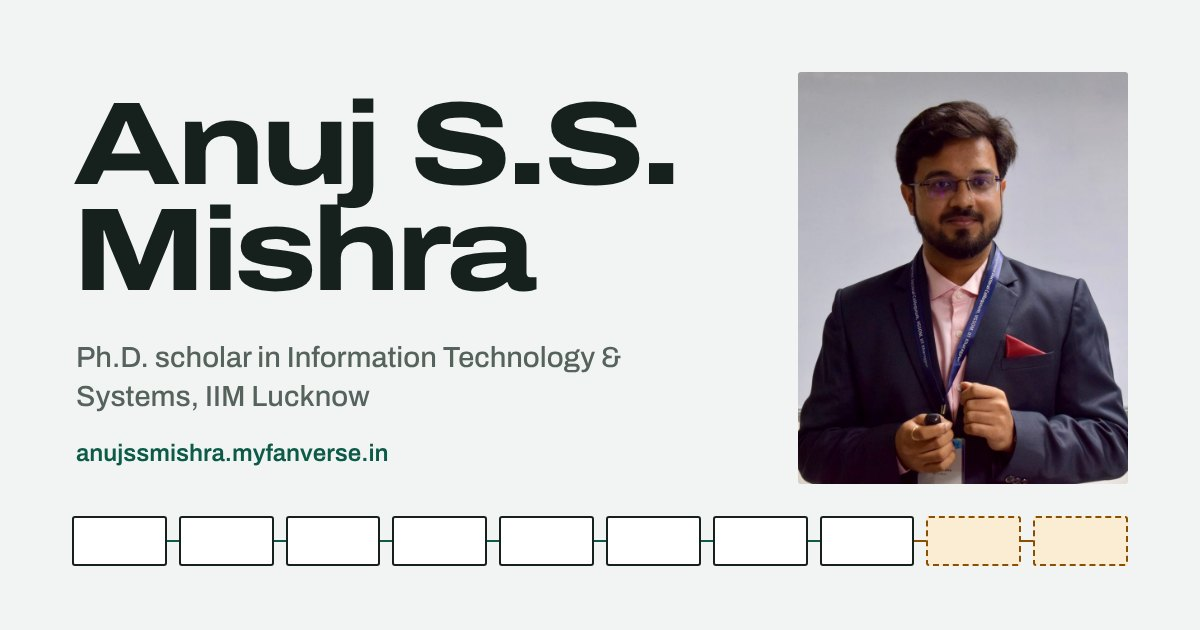
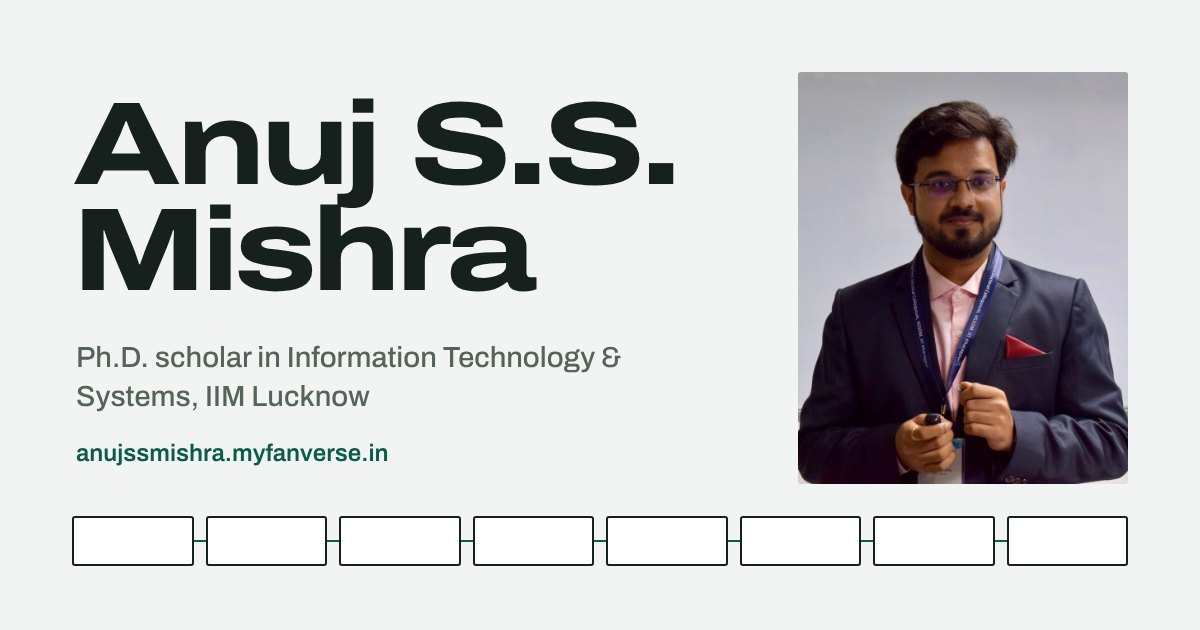
Remove Lisbon entries, add co-authors, fix sideways scroll on phones
- Remove the ICIS 2026 TREO and Pre-ICIS SIGDSA 2026 entries (not being
  presented), their related-work links and the dashed-block note
- Add author lines (from AIS eLibrary, IEEE Xplore and Google Scholar) to
  AMCIS 2026, AMCIS 2025, INDAM 2024, POMS India 2023 and ASIANCON 2021
- Fix the page scrolling sideways on phones: hidden block labels in the
  papers-and-talks strip were escaping its scroll box
- Name the chain list from its heading; regenerate the sharing image;
  update footer date, sitemap and README

Claude-Session: https://claude.ai/code/session_018Y6y4aCJHy885Jrgosy7ih

diff --git a/index.html b/index.html
@@ -109,11 +109,11 @@
 
       <div class="chain-wrap">
         <div class="wrap chain-head">
-          <h2 class="chain-title">Papers and talks, 2021 to 2026</h2>
-          <p class="chain-note">Each block’s fingerprint is the SHA-256 of its record and the fingerprint before it. Dashed blocks are scheduled for Lisbon in December 2026.</p>
+          <h2 class="chain-title" id="chain-title">Papers and talks, 2021 to 2026</h2>
+          <p class="chain-note">Each block’s fingerprint is the SHA-256 of its record and the fingerprint before it.</p>
         </div>
         <div class="chain-scroll">
-          <ol class="chain" id="chain" aria-label="Papers and talks in date order"></ol>
+          <ol class="chain" id="chain" aria-labelledby="chain-title"></ol>
         </div>
       </div>
     </section>
@@ -143,12 +143,12 @@
           <li class="theme">
             <h3>Telecom spam and regulatory enforcement</h3>
             <p>Distributed-ledger enforcement of consumer preferences against unsolicited commercial calls and messages, and systems-theoretic (STAMP) analysis of compliance across networks.</p>
-            <p class="related">Related work: <a href="#p-icis-2026">ICIS 2026</a>, <a href="#p-ecis-2026">JAIS workshop at ECIS 2026</a></p>
+            <p class="related">Related work: <a href="#p-ecis-2026">JAIS workshop at ECIS 2026</a></p>
           </li>
           <li class="theme">
             <h3>AI on agricultural platforms</h3>
             <p>How Indian AgTech platforms use AI to win and keep farmers, studied through case studies, news analysis and interviews.</p>
-            <p class="related">Related work: <a href="#p-sigdsa-2026">Pre-ICIS SIGDSA 2026</a></p>
+            <p class="related">Work in progress</p>
           </li>
         </ul>
       </div>
@@ -162,26 +162,11 @@
 
         <h4 class="ledger-year">2026</h4>
         <ol class="ledger">
-          <li class="entry" id="p-icis-2026" data-chain data-date="2026-12-13" data-short="ICIS TREO" data-place="Lisbon" data-state="pending">
-            <p class="entry-date">Dec</p>
-            <div class="entry-body">
-              <p class="entry-title">From Fragmented Compliance to Synchronized Enforcement: Rethinking DLT-Based Control of Unsolicited Commercial Communications</p>
-              <p class="entry-venue">ICIS 2026, TREO talk (research in progress), Lisbon, Portugal, 13–16 December 2026</p>
-            </div>
-            <p class="entry-status"><span class="dot dot--pending" aria-hidden="true"></span>Accepted</p>
-          </li>
-          <li class="entry" id="p-sigdsa-2026" data-chain data-date="2026-12-12" data-short="SIGDSA" data-place="Lisbon" data-state="pending">
-            <p class="entry-date">Dec</p>
-            <div class="entry-body">
-              <p class="entry-title">Beyond Adoption: AI-Enabled Retention in Indian AgTech Platforms</p>
-              <p class="entry-venue">2026 Pre-ICIS SIGDSA Symposium, Lisbon, Portugal, 12–13 December 2026</p>
-            </div>
-            <p class="entry-status"><span class="dot dot--pending" aria-hidden="true"></span>Conditionally accepted</p>
-          </li>
           <li class="entry" id="p-amcis-2026" data-chain data-date="2026-08-20" data-short="AMCIS" data-place="Reno">
             <p class="entry-date">Aug</p>
             <div class="entry-body">
               <p class="entry-title"><a href="https://aisel.aisnet.org/amcis2026/sig_sec/sig_sec/19">Decentralizing Trust: Self-Sovereign Identity Implementation in India’s Civil Aviation Ecosystem</a></p>
+              <p class="entry-authors"><strong>Anuj S.S. Mishra</strong>, Arunabha Mukhopadhyay</p>
               <p class="entry-venue">AMCIS 2026, Reno, USA, 20–22 August 2026</p>
               <p class="entry-links">
                 <a href="https://aisel.aisnet.org/amcis2026/sig_sec/sig_sec/19">AIS eLibrary</a>
@@ -215,6 +200,7 @@
             <p class="entry-date">Aug</p>
             <div class="entry-body">
               <p class="entry-title"><a href="https://aisel.aisnet.org/amcis2025/sig_sec/sig_sec/34">Cyber Risk Challenges in UPI and CBDC</a></p>
+              <p class="entry-authors"><strong>Anuj S.S. Mishra</strong>, Arunabha Mukhopadhyay</p>
               <p class="entry-venue">AMCIS 2025, Montréal, Canada, 14–16 August 2025</p>
               <p class="entry-links">
                 <a href="https://aisel.aisnet.org/amcis2025/sig_sec/sig_sec/34">AIS eLibrary</a>
@@ -240,6 +226,7 @@
             <p class="entry-date">Jul</p>
             <div class="entry-body">
               <p class="entry-title">Evolution from Traditional Currency to Digital Transactions: Delving into CBDC Acceptance</p>
+              <p class="entry-authors"><strong>Anuj S.S. Mishra</strong>, Arunabha Mukhopadhyay</p>
               <p class="entry-venue">INDAM 2024 Doctoral Colloquium, IIM Shillong, 9–11 July 2024</p>
             </div>
             <p class="entry-status"><span class="dot dot--done" aria-hidden="true"></span>Presented</p>
@@ -252,6 +239,7 @@
             <p class="entry-date">Dec</p>
             <div class="entry-body">
               <p class="entry-title">Redefining Currency through CBDC Adoption: A Text Mining Exploration</p>
+              <p class="entry-authors"><strong>Anuj S.S. Mishra</strong>, Arunabha Mukhopadhyay</p>
               <p class="entry-venue">POMS India International Conference, XLRI Jamshedpur, 4–6 December 2023</p>
             </div>
             <p class="entry-status"><span class="dot dot--done" aria-hidden="true"></span>Presented</p>
@@ -264,6 +252,7 @@
             <p class="entry-date">Aug</p>
             <div class="entry-body">
               <p class="entry-title"><a href="https://ieeexplore.ieee.org/document/9544892">Study on Blockchain-Based Healthcare Insurance Claim System</a></p>
+              <p class="entry-authors"><strong>Anuj S.S. Mishra</strong></p>
               <p class="entry-venue">2021 Asian Conference on Innovation in Technology (ASIANCON), Pune, 27–29 August 2021</p>
               <p class="entry-links">
                 <a href="https://ieeexplore.ieee.org/document/9544892">IEEE Xplore</a>
@@ -381,7 +370,7 @@
   <footer class="site-foot">
     <div class="wrap foot-inner">
       <p>© 2026 Anuj S.S. Mishra</p>
-      <p>Last updated 23 October 2026</p>
+      <p>Last updated 13 November 2026</p>
     </div>
   </footer>
 

diff --git a/assets/css/site.css b/assets/css/site.css
@@ -355,6 +355,7 @@ button { font: inherit; color: inherit; }
 .chain-note { max-width: 62ch; margin: 0; color: var(--muted); font-size: 0.875rem; }
 
 .chain-scroll {
+  position: relative; /* clips the hidden screen-reader text inside the blocks, so the page itself never scrolls sideways */
   overflow-x: auto;
   overscroll-behavior-x: contain;
   scroll-snap-type: x proximity;
@@ -521,6 +522,8 @@ button { font: inherit; color: inherit; }
 .entry-title { max-width: 72ch; margin: 0 0 0.2rem; font-weight: 600; line-height: 1.4; text-wrap: pretty; }
 .entry-title a { color: var(--ink); text-decoration-color: var(--rule-strong); }
 .entry-title a:hover { color: var(--accent); text-decoration-color: currentColor; }
+.entry-authors { margin: 0 0 0.15rem; font-size: 0.9375rem; line-height: 1.45; }
+.entry-authors strong { font-weight: 650; }
 .entry-venue { margin: 0; color: var(--muted); font-size: 0.9375rem; }
 
 .entry-links {

diff --git a/assets/js/site.js b/assets/js/site.js
@@ -244,7 +244,7 @@
       // No Web Crypto here (an insecure context): keep the chain, drop the fingerprints.
       chain.querySelectorAll(".block-hash").forEach(function (h) { h.remove(); });
       var note = document.querySelector(".chain-note");
-      if (note) note.textContent = "Dashed blocks are scheduled for Lisbon in December 2026.";
+      if (note) note.hidden = true;
       reveal();
       return;
     }

diff --git a/README.md b/README.md
@@ -30,7 +30,13 @@ It is a single static page with no build step: plain HTML, one stylesheet and on
 - `data-short` and `data-place` are the two words shown on the block.
 - Add `data-state="pending"` for something accepted but not yet presented; it is drawn as a dashed block.
 
-The fingerprints on the blocks are computed in the browser from the entry's text, so nothing else needs editing. When a pending talk has happened, remove `data-state="pending"`, change the status text and dot (`dot--pending` to `dot--done`), and update the sentence about dashed blocks in the chain note.
+The fingerprints on the blocks are computed in the browser from the entry's text, so nothing else needs editing. If you add a pending entry, add a sentence to the chain note (`.chain-note`) saying what dashed blocks mean. When the talk has happened, remove `data-state="pending"`, change the status text and dot (`dot--pending` to `dot--done`), and remove that sentence.
+
+**Authors.** Each entry has an author line under its title, with your name in bold:
+
+```html
+<p class="entry-authors"><strong>Anuj S.S. Mishra</strong>, Arunabha Mukhopadhyay</p>
+```
 
 **Change a status** (for example "Conditionally accepted" to "Accepted"): edit the `entry-status` paragraph of that entry.
 
